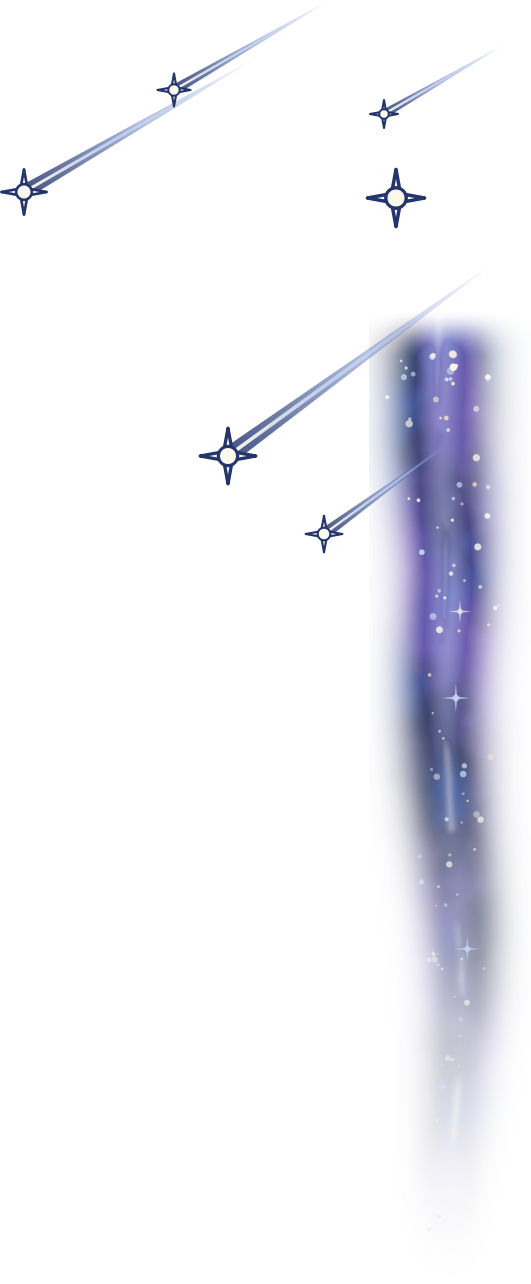
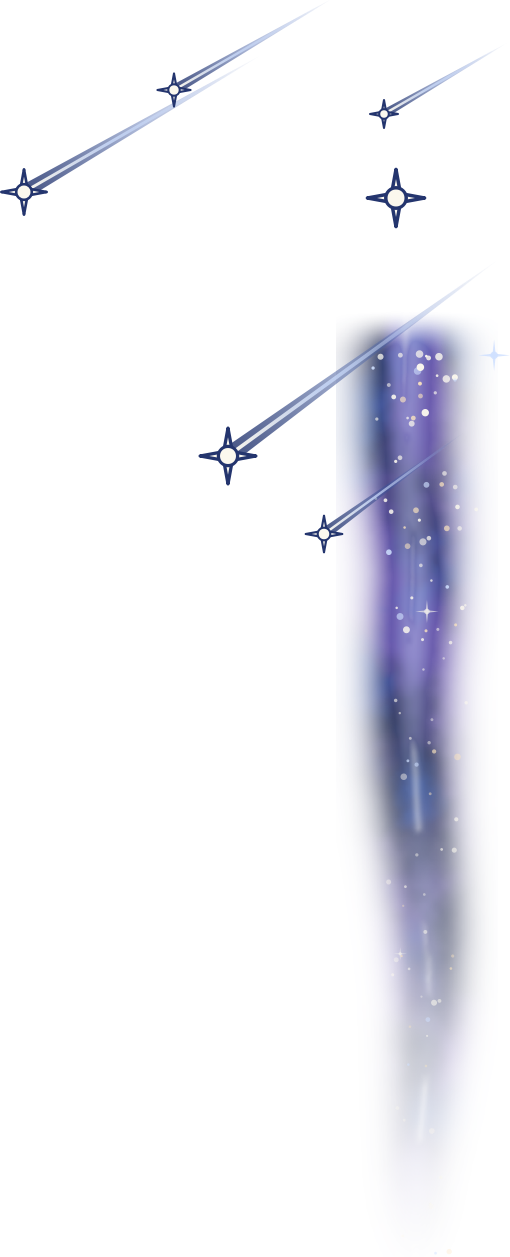
星夜蓝主题窗口点缀：左边、右边两道银河光带往里收，紧贴窗口外框线

diff --git a/dstools/qt/ornaments.py b/dstools/qt/ornaments.py
@@ -92,14 +92,14 @@ _SPRITES: dict[str, tuple[Sprite, ...]] = {
     ),
     "twilight": (
         # 星夜蓝，排版脚本 twilight/compose_twilight.py。沿上边框向右、沿左边框向下各一道银河光带，
-        # 越远越淡，光带里撒满小星，北斗七星、仙后座（按真实星位）叠在上面；都在外框线外侧
+        # 越远越淡，光带里撒满小星，北斗七星、仙后座（按真实星位）叠在上面；左边光带紧贴外框线
         Sprite("twilight_spray_right.png", 0, 0, 396, -42, 84),
-        Sprite("twilight_spray_down.png", 0, 0, -40, 318.5, 533),
+        Sprite("twilight_spray_down.png", 0, 0, -29, 318.5, 533),
         # 左上主角：一轮真实月面（NASA 月面贴图渲染）的盈凸月带月晕，前后两团月光镶边的夜云，
         # 周围几道小流星；压住标题开头
         Sprite("twilight_cluster.png", 0, 0, -6, -24.5, 219),
         # 右上呼应：几道流星收在拐角附近、两道斜切进窗口落在按钮下方，沿右边框外侧一道短光带；不挡标题栏按钮
-        Sprite("twilight_spray_corner.png", 1, 0, -31.5, 136, 428),
+        Sprite("twilight_spray_corner.png", 1, 0, -35, 131.5, 419),
         # 右下角：松林跨在拐角上，帐篷搭在林前、门里透出暖光，萤火虫在林边飞散；左下角留白
         Sprite("twilight_bottom.png", 1, 1, -145.5, -145, 302),
     ),
